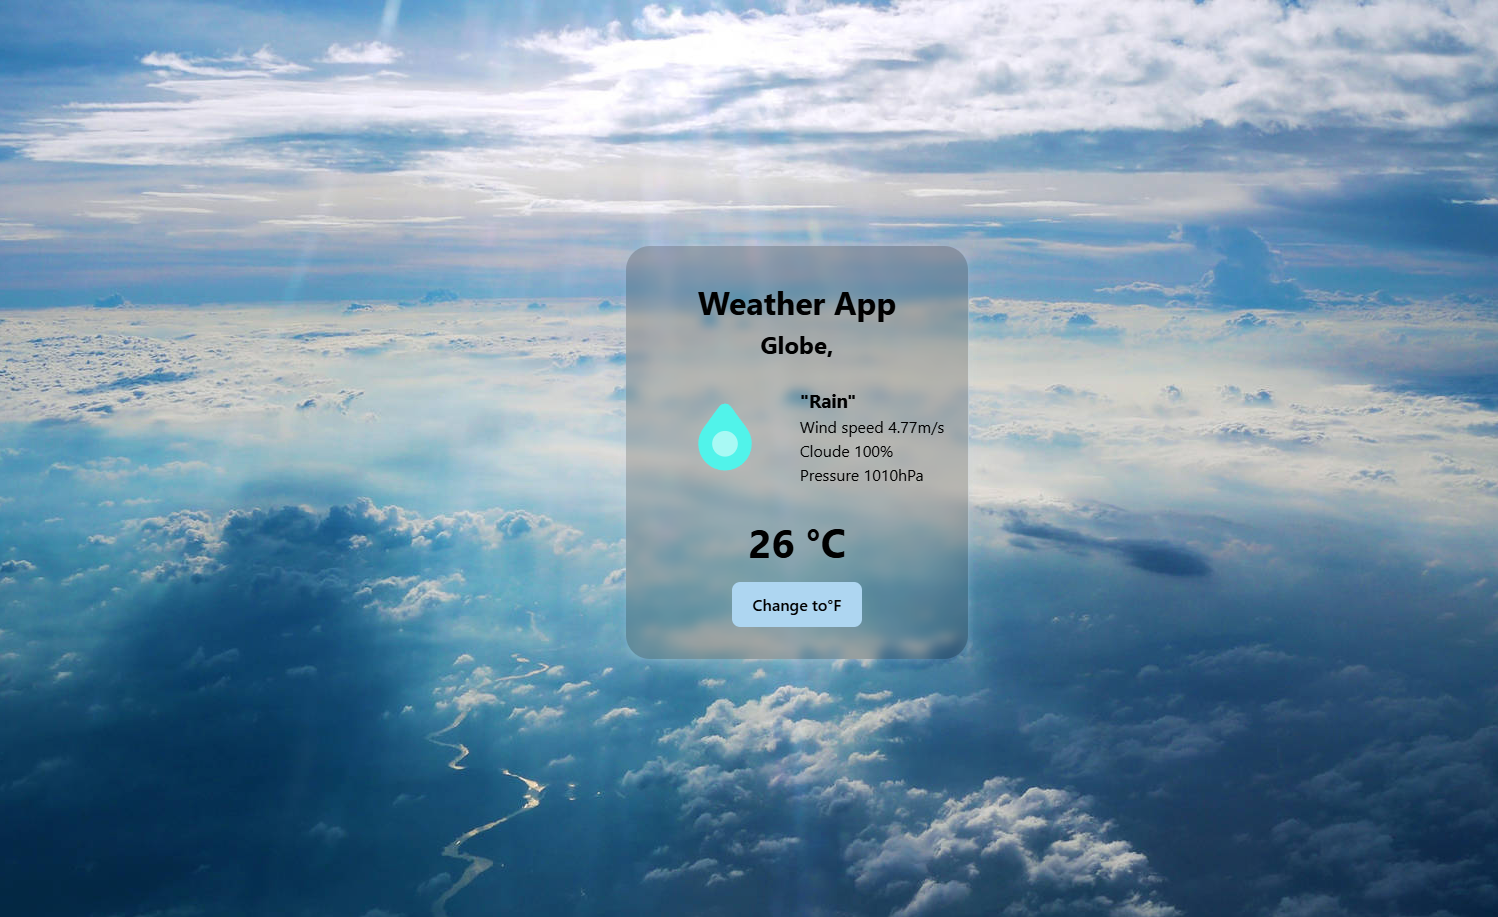
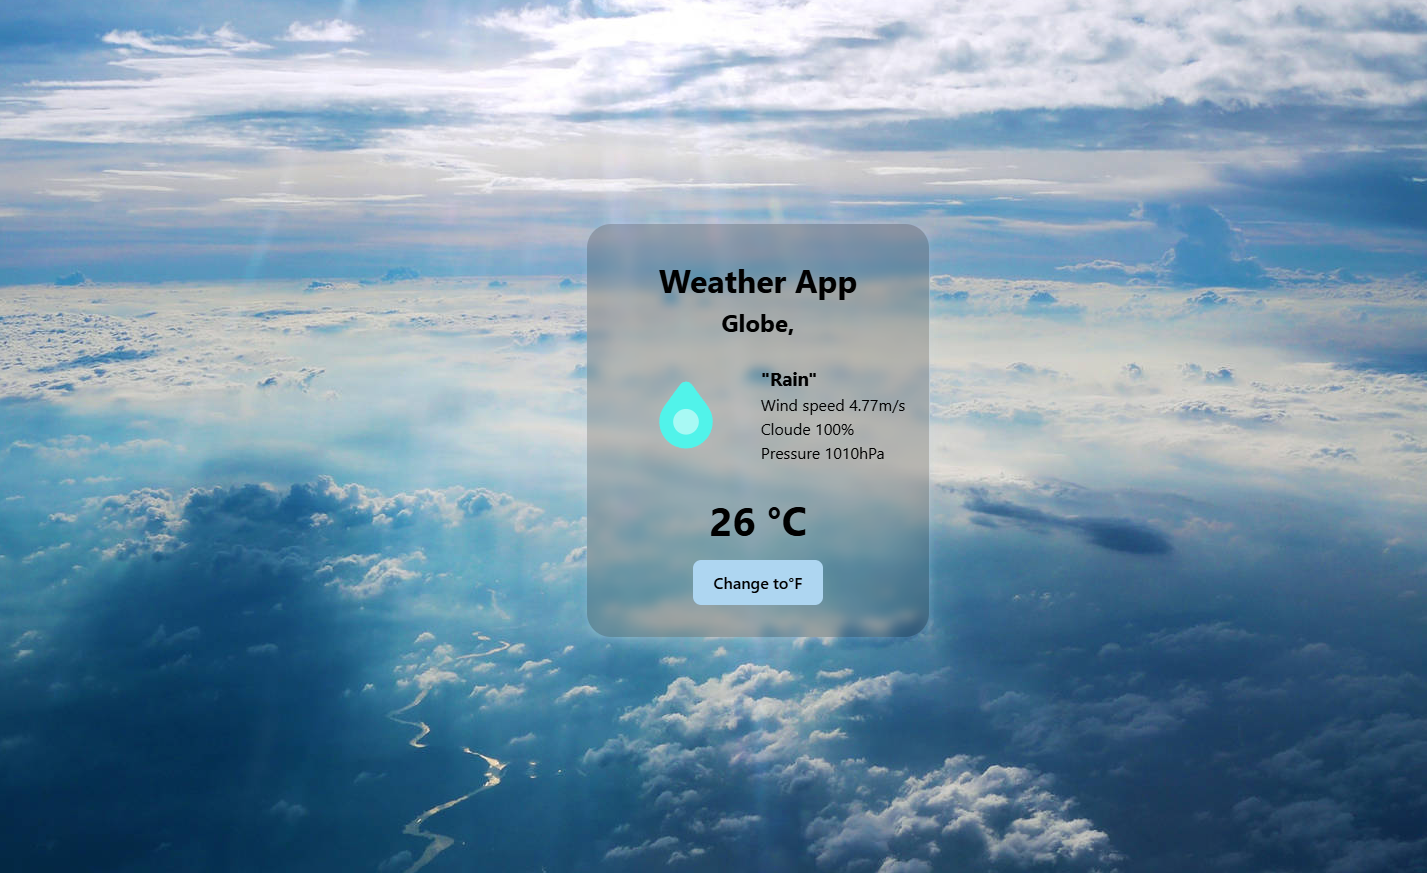
my-portfolio

diff --git a/src/components/About.jsx b/src/components/About.jsx
@@ -6,6 +6,8 @@ import Javascript from '../assets/JS.png';
 import ReactLogo from '../assets/React.png';
 import Tailwind from '../assets/Tailwind Css.png';
 import NodeJs from '../assets/NodeLogo.png';
+import PostgreSql from '../assets/postgresql.png';
+import Typescript from '../assets/typescript.png';
 import Card from './Card';
 import '../config/i18n';
 
@@ -68,6 +70,14 @@ const About = () => {
 								<div className="border border-white flex items-center gap-1 w-max px-2 py-1 rounded-lg shadow-md shadow-white bg-red-100 dark:bg-gray-500 text-gray-800 dark:text-gray-200 dark:shadow-gray-400">
 									<img src={NodeJs} alt="" className="w-10" />
 									<span className="font-semibold">Node Js</span>
+								</div>
+								<div className="border border-white flex items-center gap-1 w-max px-2 py-1 rounded-lg shadow-md shadow-white bg-red-100 dark:bg-gray-500 text-gray-800 dark:text-gray-200 dark:shadow-gray-400">
+									<img src={PostgreSql} alt="" className="w-10" />
+									<span className="font-semibold">PostgreSQL</span>
+								</div>
+								<div className="border border-white flex items-center gap-1 w-max px-2 py-1 rounded-lg shadow-md shadow-white bg-red-100 dark:bg-gray-500 text-gray-800 dark:text-gray-200 dark:shadow-gray-400">
+									<img src={Typescript} alt="" className="w-10" />
+									<span className="font-semibold">TypeScript</span>
 								</div>
 							</div>
 						</div>

diff --git a/src/components/Projects.jsx b/src/components/Projects.jsx
@@ -1,7 +1,7 @@
-import React from 'react';
+
 import { useTranslation } from 'react-i18next';
 import Hotel from '../assets/hotel.png';
-import RickandMorty from '../assets/rick and morty.png';
+import CoffeWeb from '../assets/coffeapp.png';
 import Usuarios from '../assets/usuarios.png';
 import Clima from '../assets/clima.png';
 import Cards from './Cards';
@@ -18,11 +18,11 @@ const Projects = () => {
 			github: 'https://github.com/naylethmontes/deliverable-final-react',
 		},
 		{
-			title: t('projects.rickAndMorty.title'),
-			desc: t('projects.rickAndMorty.desc'),
-			image: RickandMorty,
-			live: 'https://deliverable03-rick-and-morty.netlify.app/',
-			github: 'https://github.com/naylethmontes/deliverable03-rick-and-morty',
+			title: t('projects.coffeWeb.title'),
+			desc: t('projects.coffeWeb.desc'),
+			image: CoffeWeb,
+			live: 'https://coffe-delcampo-dev.netlify.app/',
+			github: 'https://github.com/naylethmontes/coffe-app',
 		},
 		{
 			title: t('projects.crud.title'),
